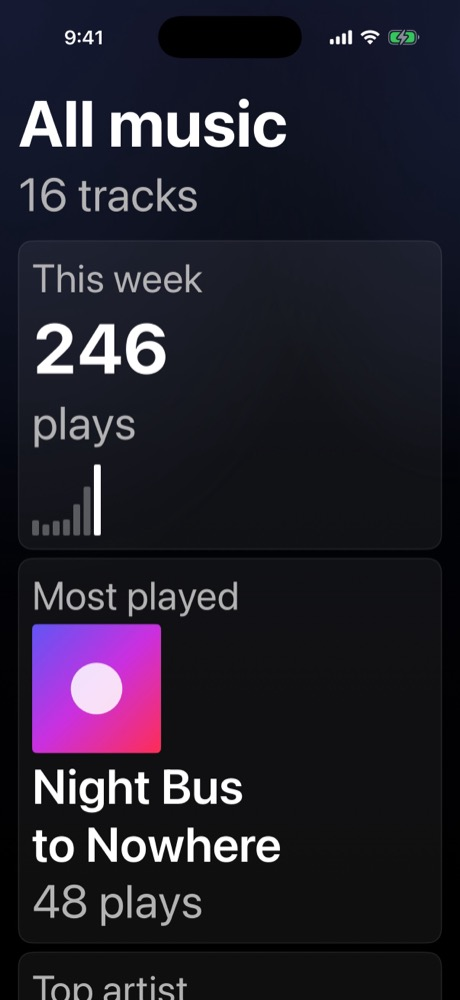
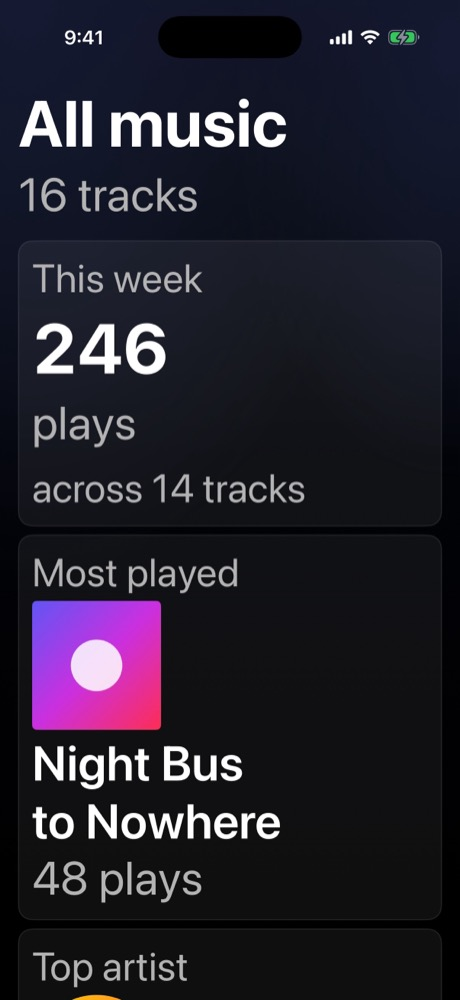
iOS: This week card shows the track count, not estimated day bars (#446)

Changed region(s): [[0.0609, 0.465, 0.6087, 1.0], [0.3348, 0.465, 0.6696, 0.527]]

diff --git a/apps/ios/Locally/Views/Library/LibraryHeaderCards.swift b/apps/ios/Locally/Views/Library/LibraryHeaderCards.swift
@@ -1,6 +1,6 @@
 import SwiftUI
 
-/// The three cards under "All music" (#446): This week (the week's plays and seven still day bars, today brighter),
+/// The three cards under "All music" (#446): This week (the week's plays and how many tracks they were of),
 /// Most played (the week's top track) and Top artist (a round avatar from the artist's newest cover). Each is one
 /// button with one spoken label. Equal width in a row; at accessibility text sizes they stack as full-width rows.
 /// Cards are `panelFill` on a `panelStroke` hairline at radius 12: no glow, tint or shadow, and no medals (rank is the
@@ -42,7 +42,7 @@ struct LibraryHeaderCards: View {
     // MARK: Cards
 
     private var thisWeekCard: some View {
-        card(label: Copy.Library.thisWeek, spoken: Copy.Library.thisWeekLabel(plays: week.total), hint: Copy.Library.thisWeekHint, action: onThisWeek) {
+        card(label: Copy.Library.thisWeek, spoken: Copy.Library.thisWeekLabel(plays: week.total, tracks: week.trackCount), hint: Copy.Library.thisWeekHint, action: onThisWeek) {
             Text("\(week.total)")
                 .font(.system(size: bigNumberSize, weight: .bold))
                 .monospacedDigit()
@@ -51,7 +51,11 @@ struct LibraryHeaderCards: View {
                 .themeFont(.meta)
                 .foregroundStyle(Theme.secondaryText)
             Spacer(minLength: 4)
-            LibraryWeekBars(days: week.days, todayIndex: week.todayIndex)
+            Text(Copy.Library.acrossTracks(week.trackCount))
+                .themeFont(.dropZoneHint)
+                .foregroundStyle(Theme.secondaryText)
+                .lineLimit(stacked ? nil : 1)
+                .minimumScaleFactor(0.7)
         }
     }
 
@@ -138,33 +142,6 @@ struct LibraryHeaderCards: View {
 private struct LibraryCardStyle: ButtonStyle {
     func makeBody(configuration: Configuration) -> some View {
         configuration.label.opacity(configuration.isPressed ? 0.7 : 1)
-    }
-}
-
-/// Seven still bars for the week's days, the week's first day at the left. Today is full white, the days before it
-/// are dimmer, and days still to come are stubs. Drawn from the plays each track last had on a day (the summary only
-/// names a track's latest day), so it shows when the week was busy, not an exact count. Hidden from VoiceOver.
-struct LibraryWeekBars: View {
-    let days: [Int]
-    let todayIndex: Int
-
-    @ScaledMetric(relativeTo: .body) private var maxHeight = Theme.Library.weekBarMaxHeight
-
-    var body: some View {
-        let peak = max(days.max() ?? 0, 1)
-        HStack(alignment: .bottom, spacing: Theme.Library.weekBarGap) {
-            ForEach(Array(days.enumerated()), id: \.offset) { index, plays in
-                let upcoming = index > todayIndex
-                let height = upcoming || plays == 0
-                    ? Theme.Library.weekBarMinHeight
-                    : max(Theme.Library.weekBarMinHeight, maxHeight * CGFloat(plays) / CGFloat(peak))
-                RoundedRectangle(cornerRadius: 1.5)
-                    .fill(Color.white.opacity(index == todayIndex ? 1 : (upcoming ? 0.12 : 0.3)))
-                    .frame(width: Theme.Library.weekBarWidth, height: height)
-            }
-        }
-        .frame(height: maxHeight, alignment: .bottom)
-        .accessibilityHidden(true)
     }
 }
 

diff --git a/apps/ios/Locally/Views/Library/LibraryHeaderModel.swift b/apps/ios/Locally/Views/Library/LibraryHeaderModel.swift
@@ -5,10 +5,8 @@ import Observation
 struct LibraryWeek: Equatable {
     /// Every counted play this week.
     var total: Int
-    /// Plays for each of the week's seven days, the week's first day first. Days after today are 0.
-    var days: [Int]
-    /// Which of `days` is today.
-    var todayIndex: Int
+    /// How many different tracks those plays were of.
+    var trackCount: Int
     var topTrack: StatItem
     var topArtist: StatItem
     /// The artist page's key for `topArtist` (an "A feat. B" release counts for A, as on the Stats page).
@@ -64,7 +62,7 @@ final class LibraryHeaderModel {
         switch outcome {
         case .ok(let summary):
             lastEmptyAt = nil
-            phase = Self.week(from: summary, releases: releases, range: range, today: today).map(Phase.week) ?? .hidden
+            phase = Self.week(from: summary, releases: releases).map(Phase.week) ?? .hidden
         case .signedOut:
             lastEmptyAt = nil
             phase = .hidden
@@ -75,23 +73,13 @@ final class LibraryHeaderModel {
     }
 
     /// The cards for a week's summary, or nil when no play of a track still in the library was counted.
-    static func week(from summary: PlaysSummary, releases: [Release], range: DayRange, today: String) -> LibraryWeek? {
+    static func week(from summary: PlaysSummary, releases: [Release]) -> LibraryWeek? {
         // The same ranking the Stats page makes for a week: `StatsViewModel.apply` with the period's own counts.
-        let ranked = PlayStats.aggregate(releases: releases, counts: summary.tracks, limit: 1)
+        // Only tracks still in the library count, each once, so `tracks.count` is the number played this week.
+        let ranked = PlayStats.aggregate(releases: releases, counts: summary.tracks, limit: .max)
         guard ranked.total > 0, let track = ranked.tracks.first, let artist = ranked.artists.first else { return nil }
-        let held = Set(releases.flatMap { release in
-            release.tracks.map { release.id.uuidString.lowercased() + "/" + $0.id.uuidString.lowercased() }
-        })
-        let dayNames = (0..<7).map { PlayPeriods.addDays(range.from, $0) }
-        var days = Array(repeating: 0, count: 7)
-        for count in summary.tracks where count.plays > 0 {
-            guard held.contains(count.releaseId.lowercased() + "/" + count.trackId.lowercased()),
-                  let day = count.lastPlayedDay, let index = dayNames.firstIndex(of: day) else { continue }
-            // The summary names only the latest day of a track's plays, so a track counts on that day.
-            days[index] += count.plays
-        }
         return LibraryWeek(
-            total: ranked.total, days: days, todayIndex: dayNames.firstIndex(of: today) ?? 0,
+            total: ranked.total, trackCount: ranked.tracks.count,
             topTrack: track, topArtist: artist,
             artistKey: ArtistNames.artistKey(ArtistNames.splitArtistFeaturing(artist.title).artist)
         )

diff --git a/apps/ios/LocallyTests/LibraryHeaderTests.swift b/apps/ios/LocallyTests/LibraryHeaderTests.swift
@@ -74,9 +74,27 @@ struct LibraryHeaderTests {
         #expect(week.topArtist.title == "Okoro")
         #expect(week.topArtist.plays == 12)
         #expect(week.artistKey == "okoro")
-        // Monday 12th to Sunday 18th; today is the fourth bar and the rest of the week is still to come.
-        #expect(week.days == [3, 4, 5, 2, 0, 0, 0])
-        #expect(week.todayIndex == 3)
+        // Four different tracks: Night Bus 11, Lanterns 21 and the album's two.
+        #expect(week.trackCount == 4)
+    }
+
+    @Test func aTrackWithNoPlaysIsNotInTheTrackCount() async {
+        let m = make(week([
+            count(1, 11, 5, day: "2026-10-14"),
+            count(3, 31, 4, day: "2026-10-13"),
+            count(3, 32, 0, day: "2026-10-12"),
+        ]))
+        await m.model.read(releases: library)
+        guard case .week(let week) = m.model.phase else { Issue.record("expected the week"); return }
+        #expect(week.trackCount == 2)
+        #expect(week.total == 9)
+    }
+
+    @Test func theFirstCardSaysHowManyTracksAndReadsOutLoudWithThem() {
+        #expect(Copy.Library.acrossTracks(31) == "across 31 tracks")
+        #expect(Copy.Library.acrossTracks(1) == "across 1 track")
+        #expect(Copy.Library.thisWeekLabel(plays: 246, tracks: 31) == "This week, 246 plays across 31 tracks")
+        #expect(Copy.Library.thisWeekLabel(plays: 1, tracks: 1) == "This week, 1 play across 1 track")
     }
 
     @Test func aCountForATrackNoLongerInTheLibraryIsLeftOut() async {
@@ -84,7 +102,7 @@ struct LibraryHeaderTests {
         await m.model.read(releases: library)
         guard case .week(let week) = m.model.phase else { Issue.record("expected the week"); return }
         #expect(week.total == 5)
-        #expect(week.days.reduce(0, +) == 5)
+        #expect(week.trackCount == 1)
     }
 
     @Test func aLibraryWithNoneOfTheCountedTracksHidesTheCards() async {

diff --git a/apps/ios/Locally/Resources/Theme.swift b/apps/ios/Locally/Resources/Theme.swift
@@ -176,18 +176,14 @@ enum Theme {
         static let collectionsCardPressOpacity: Double = 0.85
         static let collectionsCardPressDuration: Double = 0.2
         static let collectionsCardRadius: CGFloat = 12
-        /// The three cards over the Collections shelf (#446): minimum height, gap, inner padding, the cover or avatar's
-        /// side, the week bars' width, gap and tallest height. They grow with the text.
+        /// The three cards over the Collections shelf (#446): minimum height, gap, inner padding and the cover or
+        /// avatar's side. They grow with the text.
         static let headerCardMinHeight: CGFloat = 124
         /// How far that minimum height grows with the text.
         static let headerCardMaxMinHeight: CGFloat = 180
         static let headerCardGap: CGFloat = 8
         static let headerCardPadding: CGFloat = 12
         static let headerCardCover: CGFloat = 40
-        static let weekBarWidth: CGFloat = 6
-        static let weekBarGap: CGFloat = 3
-        static let weekBarMaxHeight: CGFloat = 22
-        static let weekBarMinHeight: CGFloat = 3
         /// The Collections shelf (#446): a tile's side (cover radius 8) and the gap between tiles.
         static let shelfTile: CGFloat = 112
         static let shelfGap: CGFloat = 12

diff --git a/apps/ios/Locally/Resources/Copy.swift b/apps/ios/Locally/Resources/Copy.swift
@@ -196,12 +196,13 @@ enum Copy {
         /// The three cards over the Collections shelf (#446).
         static func plays(_ count: Int) -> String { count == 1 ? "1 play" : "\(count) plays" }
         static let thisWeek = "This week"
-        /// Under the week's number on the first card.
+        /// Under the week's number on the first card: "plays", then "across 31 tracks".
         static let playsWord = "plays"
+        static func acrossTracks(_ count: Int) -> String { count == 1 ? "across 1 track" : "across \(count) tracks" }
         static let mostPlayed = "Most played"
         static let topArtist = "Top artist"
         static let weekLoading = "Loading this week"
-        static func thisWeekLabel(plays count: Int) -> String { "\(thisWeek), \(plays(count))" }
+        static func thisWeekLabel(plays count: Int, tracks: Int) -> String { "\(thisWeek), \(plays(count)) \(acrossTracks(tracks))" }
         static func mostPlayedLabel(title: String, plays count: Int) -> String { "\(mostPlayed), \(title), \(plays(count))" }
         static func topArtistLabel(name: String, plays count: Int) -> String { "\(topArtist), \(name), \(plays(count))" }
         static let thisWeekHint = "Opens Stats on this week"

diff --git a/docs/design.md b/docs/design.md
@@ -556,7 +556,7 @@ cover wash. The iPhone's capsule is unchanged.
     have radius 4, like every cover (#418). A pressed tile grows to 1.03 with a shadow (radius 10, 35 %, y 4) over 0.15 s.
     List rows sit in a radius 12 panel, and the divider between Singles and Albums is white at 7 %.
     The layout toggle is a slim switch track with a neutral thumb sliding on the switch's spring, and the sort button is a plain icon (#411). The Library has no "Add a song" footer (the Import tab does that).
-    **Header (#446, owner pick D, 31 Oct 2026).** Under the "All music" title: three equal cards (`LibraryHeaderCards`: This week with its plays and seven still day bars, today brighter; Most played with its cover at radius 4; Top artist with a round avatar), each one button at radius 12 on `panelFill` and `panelStroke`, at least 124 pt tall, with no glow, tint or medal, that opens Stats on This week, that release, or that artist's page. They read the week the Stats tab already fetched, so they are hidden (and the shelf moves up) with no plays, signed out or offline, and show still placeholders after 300 ms while it loads; at the accessibility sizes they stack as three full-width rows. Then the Collections shelf (`CollectionsShelf`: "Collections" with its count and "See all", a sideways row of 112 pt tiles with an 8 radius cover, name and track count, and a New collection tile; it replaces the glass `CollectionsLibraryCard`). Then a right-aligned icon toolbar, each icon a 44 pt target with a label: search, sort, filter (All, Singles, Albums, then the genres present; a filter other than All turns the icon `accent`; remembered like the sort; not in the Artists view), and the list / covers / artists switch, with the cover size slider under the row in covers view; it wraps with `ViewThatFits`. Search replaces the cards, shelf and toolbar with a full-width capsule field (keyboard up) and a Cancel word; results are one list, each row's subtitle ending "· Single" or "· Album", under a "3 matches" line; Cancel clears the query; scrolling hides the keyboard but keeps it; Reduce Motion swaps without an animation.
+    **Header (#446, owner pick D, 31 Oct 2026).** Under the "All music" title: three equal cards (`LibraryHeaderCards`: This week with its plays and "across 31 tracks" under them; Most played with its cover at radius 4; Top artist with a round avatar), each one button at radius 12 on `panelFill` and `panelStroke`, at least 124 pt tall, with no glow, tint or medal, that opens Stats on This week, that release, or that artist's page. They read the week the Stats tab already fetched, so they are hidden (and the shelf moves up) with no plays, signed out or offline, and show still placeholders after 300 ms while it loads; at the accessibility sizes they stack as three full-width rows. Then the Collections shelf (`CollectionsShelf`: "Collections" with its count and "See all", a sideways row of 112 pt tiles with an 8 radius cover, name and track count, and a New collection tile; it replaces the glass `CollectionsLibraryCard`). Then a right-aligned icon toolbar, each icon a 44 pt target with a label: search, sort, filter (All, Singles, Albums, then the genres present; a filter other than All turns the icon `accent`; remembered like the sort; not in the Artists view), and the list / covers / artists switch, with the cover size slider under the row in covers view; it wraps with `ViewThatFits`. Search replaces the cards, shelf and toolbar with a full-width capsule field (keyboard up) and a Cancel word; results are one list, each row's subtitle ending "· Single" or "· Album", under a "3 matches" line; Cancel clears the query; scrolling hides the keyboard but keeps it; Reduce Motion swaps without an animation.
   - *Collection builder (iPhone, #366)*: "New collection" and "Add music" open one full-screen page (`CollectionBuilderView`). One cover wash fades down to near-black with no edge; the record sleeve carries the typed name over a mosaic of the first four picked covers; the picks lean in a boxless crate beside "3 songs · 7 min".
     Releases are a shelf of 132 pt covers (112 pt at accessibility sizes; a pick gets a cover-tinted check dot and `GlowRim(corner:)`; shelf and song covers are radius 4 and the pick ring uses the same radius, #418); Songs is a borderless list with a trailing round + that fills with the cover's accent. A frosted search pill and a round cover-tinted Done float at the bottom and stack at accessibility sizes.
     Shelf text is held to accessibility1 so a word is never split ("Har-"). Previews in `docs/design-previews/366/`; sizes in `Theme.Builder`.

diff --git a/STATUS.md b/STATUS.md
@@ -79,7 +79,7 @@ Mac library work (#7); the Sep 27 security backlog (#12) is closed on both apps.
 - Share extension ("Send to Locally") with an app-group inbox, plus a Documents-folder inbox
 - StoreKit one-time purchase wired up but gates no feature yet
 - Library is the home tab, split into Singles and Albums sections with counts
-- Library header (#446): under "All music", three equal cards from this week's plays (This week with seven day bars, Most played, Top artist; each opens Stats on This week, the release, or the artist page, and they are hidden when there are no plays or Stats is unavailable), the Collections shelf (covers, "See all", a New collection tile), then a right-aligned icon toolbar of search, sort, filter (All, Singles, Albums, genres; remembered) and the list / covers / artists switch. Search opens a full-width field with Cancel and lists matches with Single or Album in each subtitle. The cards read the week through the Stats tab's cached summary, so Library then Stats is one request
+- Library header (#446): under "All music", three equal cards from this week's plays (This week with its plays and track count, Most played, Top artist; each opens Stats on This week, the release, or the artist page, and they are hidden when there are no plays or Stats is unavailable), the Collections shelf (covers, "See all", a New collection tile), then a right-aligned icon toolbar of search, sort, filter (All, Singles, Albums, genres; remembered) and the list / covers / artists switch. Search opens a full-width field with Cancel and lists matches with Single or Album in each subtitle. The cards read the week through the Stats tab's cached summary, so Library then Stats is one request
 - Play in Locally (#336, step 1 of #324): the track number on the release page is a play button (a release opened from a track, a Stats track or the mini player, scrolls to that track, which glows for a moment in the cover's colour with a small cue at its leading edge, #362), a mini player sits above the tab bar, and playback continues in the background with lock-screen controls, from the files in the Spotify folder; no play counting yet (#337)
 - iPhone counts plays in Locally (#337, step 2 of #324): a play counts after `min(30 s, 90% of the track)`, kept on the phone with per-day buckets and pushed to `PUT /v1/plays` on reconcile with `source: "locally"` (needs #340); Stats say "Plays in Spotify and in Locally"; the player's queue now holds items from any release (for Collections, #339)
 - Play next and Add to queue (#364 part A): `PlaybackService.playNext` inserts after the playing track and `addToQueue` appends. Adopted, details-only songs are left out and counted, and with nothing playing either one starts playback. Once tracks from another release join, the queue becomes a mixed queue and a collection or release no longer claims it; a tap on the mini player then opens the playing song's release. A small glass toast tinted by the cover ("Playing next", "Added to queue", or the left-out count, with its sleeve's disc sliding out) floats above the mini player and is announced to VoiceOver. `TrackActionsMenu` is the reusable long-press menu: an icon row of Play next, Add to queue and Add to collection, then Share, Edit, Go to album and Go to artist as rows (Song info too), each shown when its screen wires it, with the same VoiceOver actions. Part B wires it into the release page's song rows, the Library's list rows and grid tiles, and Stats' ranked rows and sorted tiles (not the fan's sleeves, and artists have no menu), as well as the collection queue rows. Edit opens the release in edit mode, scrolled to the song; Go to album opens the release at the song; Go to artist opens the main artist's page; adopted releases get no Edit; Song info opens the song page (#365). Checked with unit tests, UI tests of the menu on each place (`TrackActionsMenuUITests`) and screenshots in `docs/design-previews/364/` and `docs/design-previews/364b/`; not on a phone
